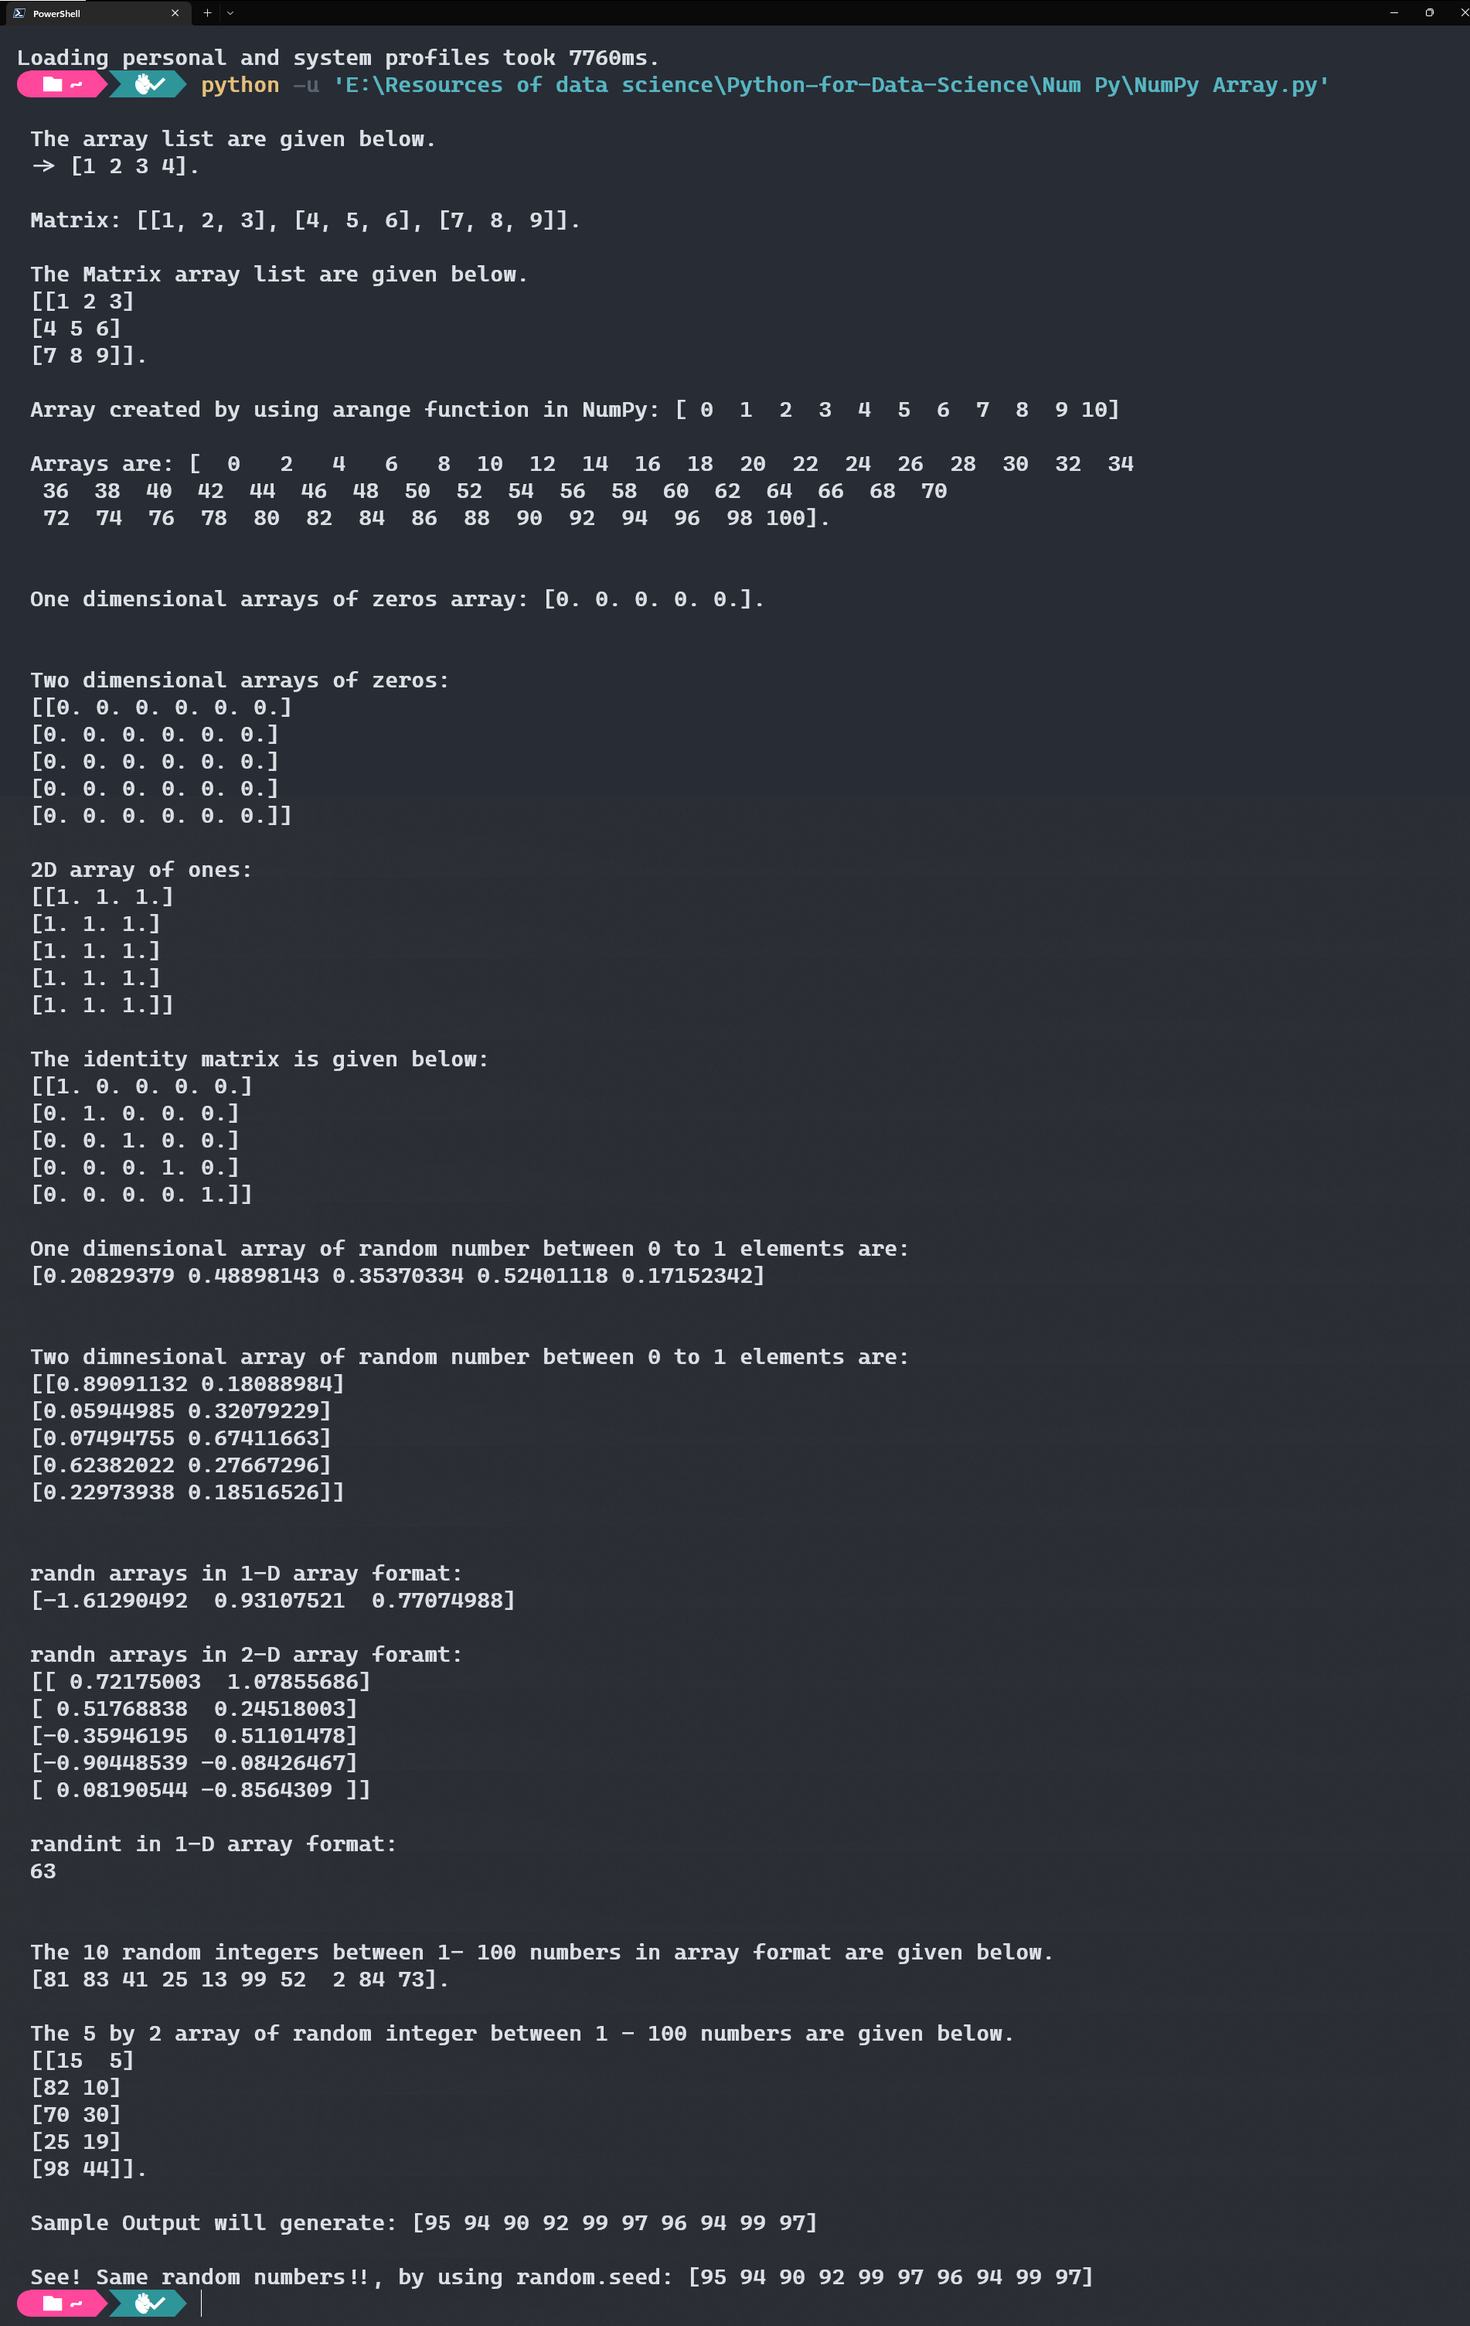
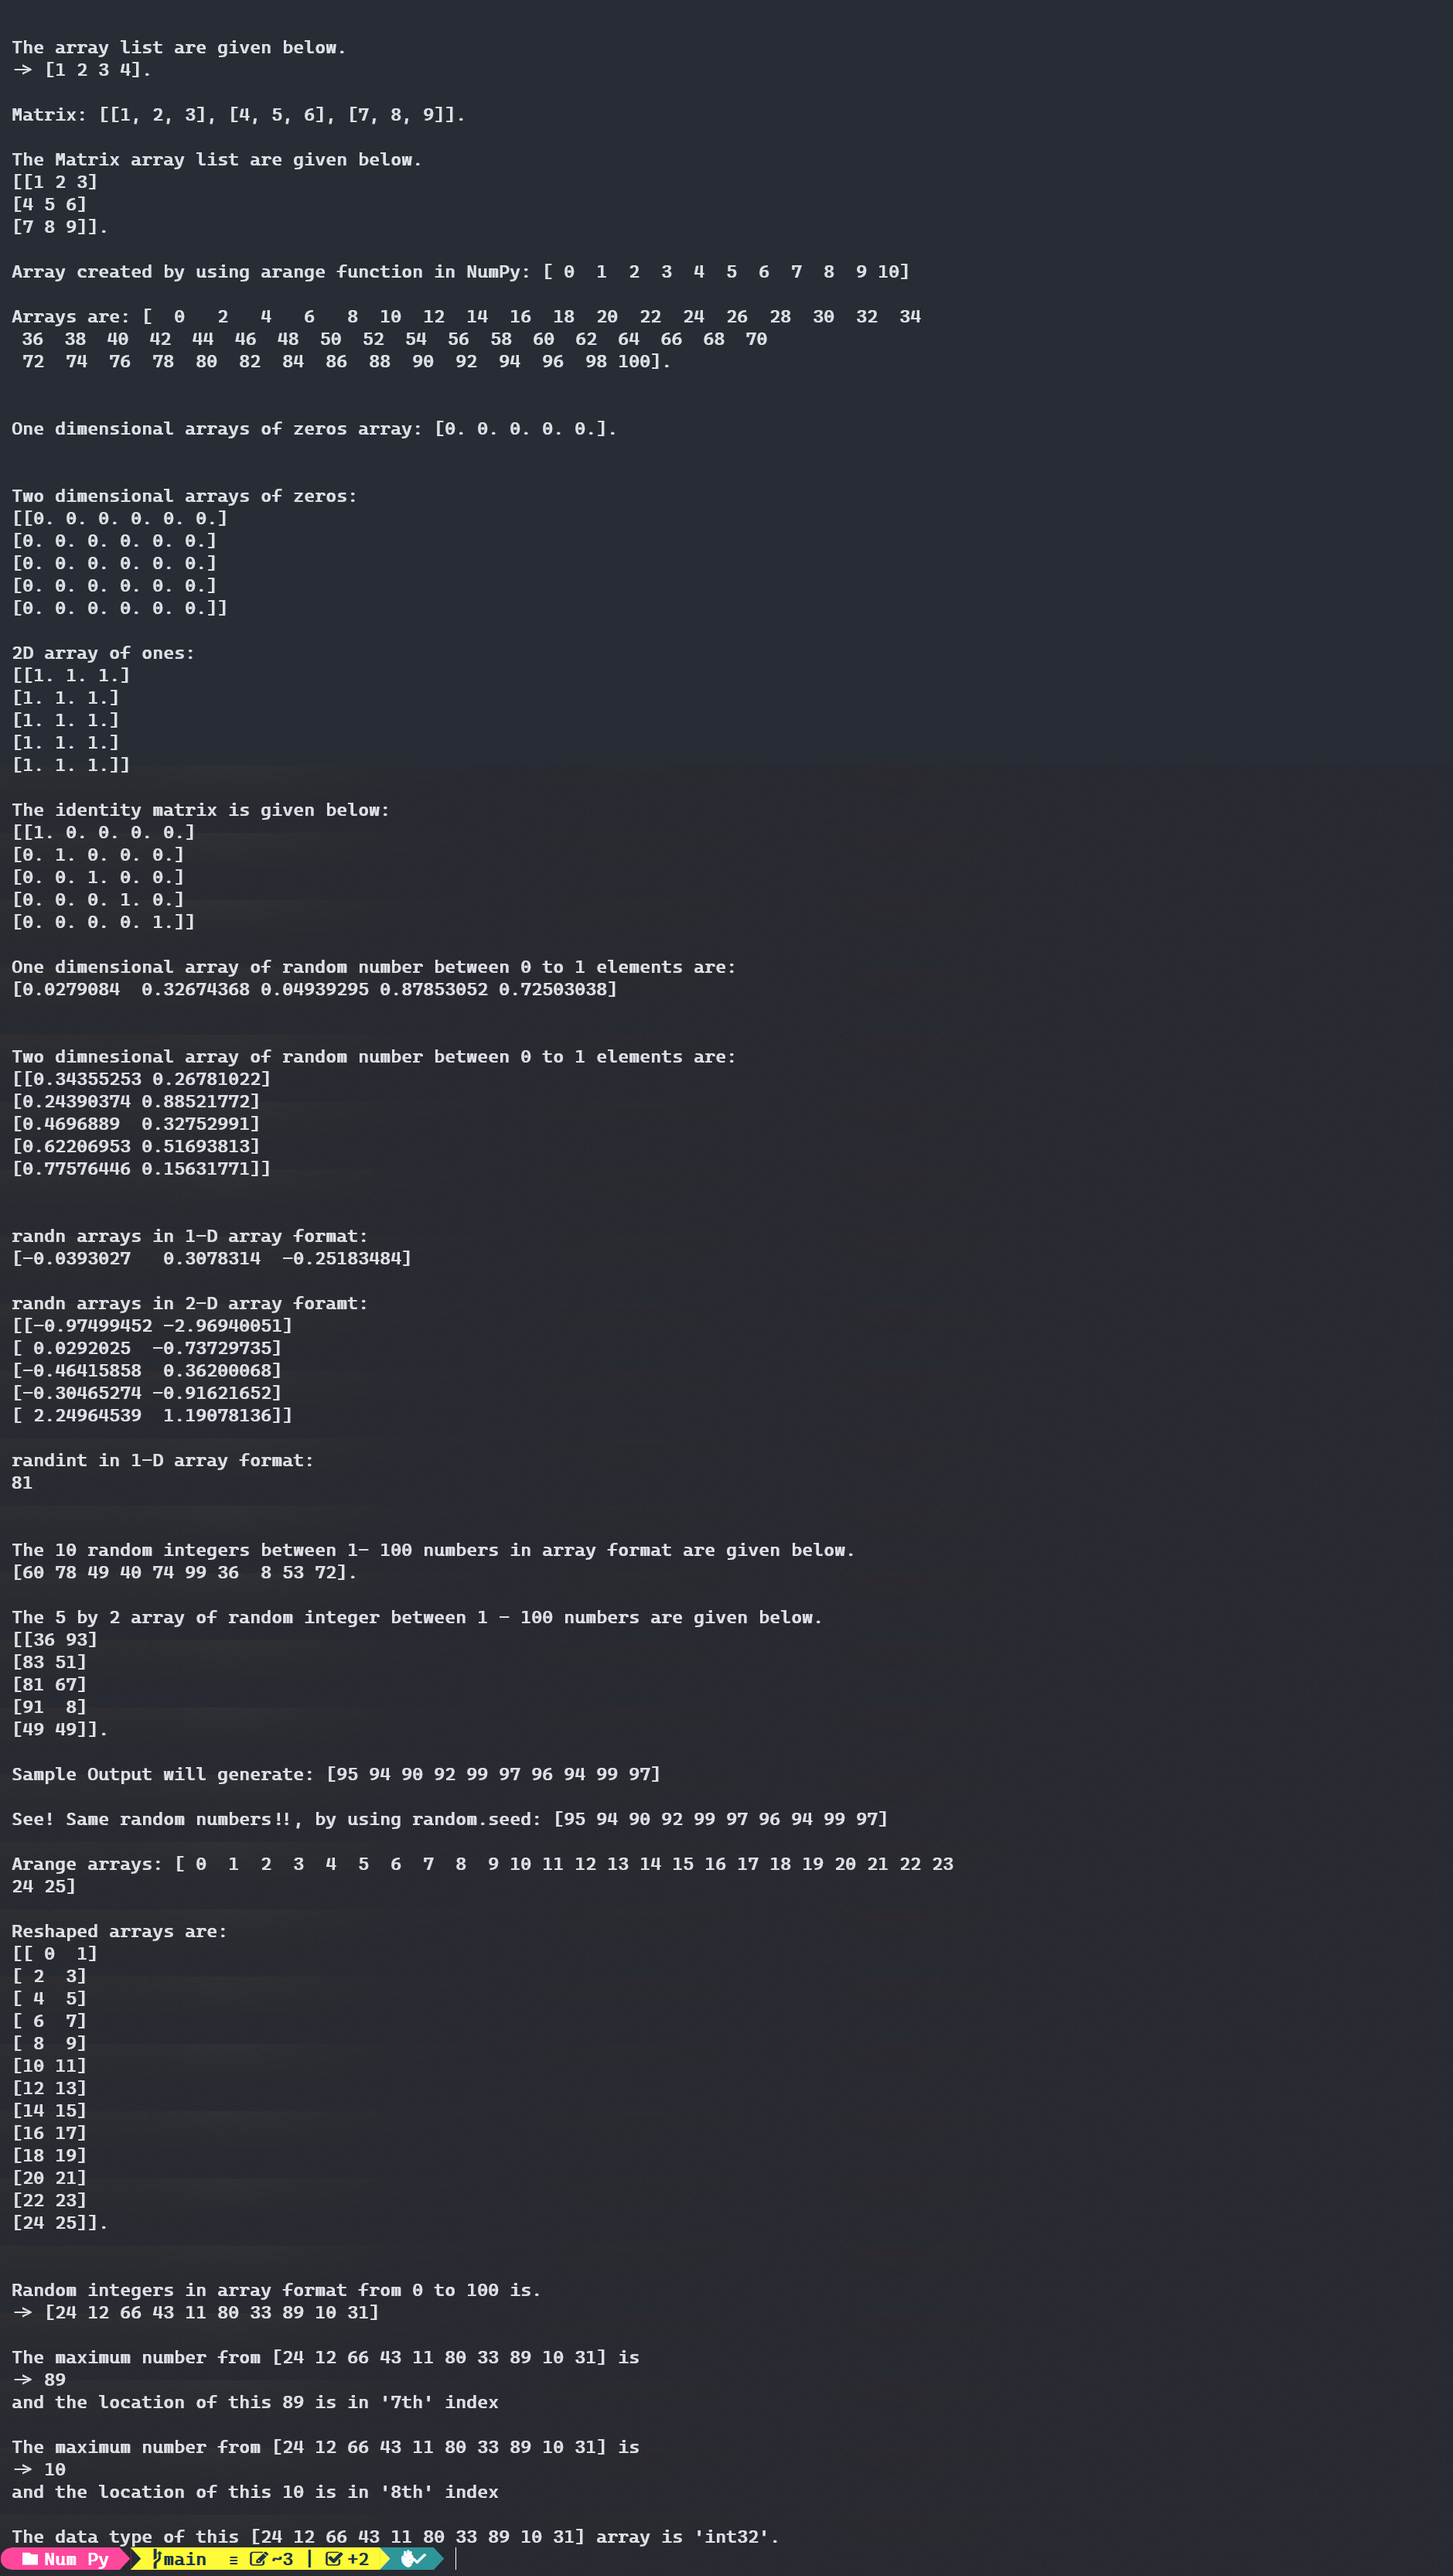
.added and .modifided

diff --git a/Num Py/NumPy Array.py b/Num Py/NumPy Array.py
@@ -87,3 +87,33 @@ random_seed = np.random.seed(56)
 random_randint = np.random.randint(90, 100, 10)
 print(f" \n Sample Output will generate: {random_randint}")
 print(f" \n See! Same random numbers!!, by using random.seed: {random_randint}")
+
+# let's create a arange array.
+arange_arr = np.arange(0,26)
+print(f'\n Arange arrays: {arange_arr}')
+
+# reshaping the arange_arr variable in 2-D array.
+reshaped_arr = arange_arr.reshape(13,2)
+
+print(f'\n Reshaped arrays are: \n {reshaped_arr}.\n')
+
+# creating a random arr
+ranarr = np.random.randint(0,101,10)
+# np.random.seed(0)
+print(f"\n Random integers in array format from 0 to 100 is. \n -> {ranarr}")
+
+# creating a variable will stores the maximum value of ranarr variable
+max_arr = ranarr.max()
+# we also can find the location of maximum value doing this,
+loc = ranarr.argmax()
+print(f"\n The maximum number from {ranarr} is \n -> {max_arr} \n and the location of this {max_arr} is in '{loc}th' index")
+
+
+# creating a variable will stores the minimum value of ranarr variable
+min_arr = ranarr.min()
+# we also can find the location of minimum value doing this,
+loc = ranarr.argmin()
+print(f"\n The maximum number from {ranarr} is \n -> {min_arr} \n and the location of this {min_arr} is in '{loc}th' index")
+
+data_type = ranarr.dtype
+print(f"\n The data type of this {ranarr} array is '{data_type}'.")

diff --git a/basic python/functions/uppercase even letter.py b/basic python/functions/uppercase even letter.py
@@ -1,0 +1,17 @@
+def my_func(st):
+  result = []
+  # Iterate over the character
+  for index in range(len(st)):
+    if index % 2 == 0:
+      # Refer to each character via index and append modified character to list
+      result.append(st[index].upper())
+    else:
+      result.append(st[index].lower())
+
+  # Join the list into a string and return
+  return ''.join(result)
+
+
+result = my_func('Sadiqhasan Rupani')
+
+print(f'\n The result is given below\n -> {result}')

diff --git a/Num Py/numpy_test.py b/Num Py/numpy_test.py
@@ -1,0 +1,5 @@
+import numpy as np
+
+result = np.linspace(0,10,101)
+
+print(result)
